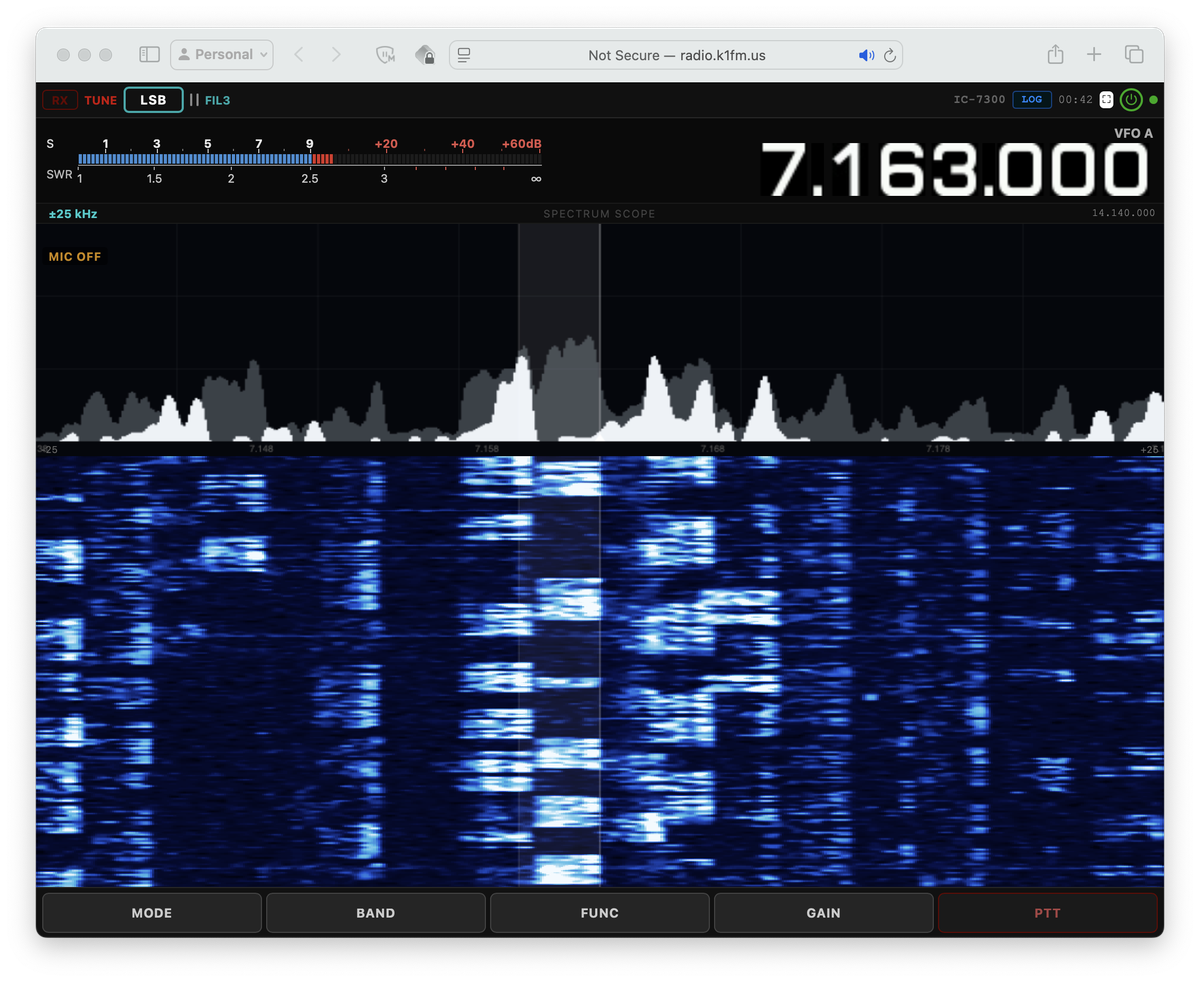
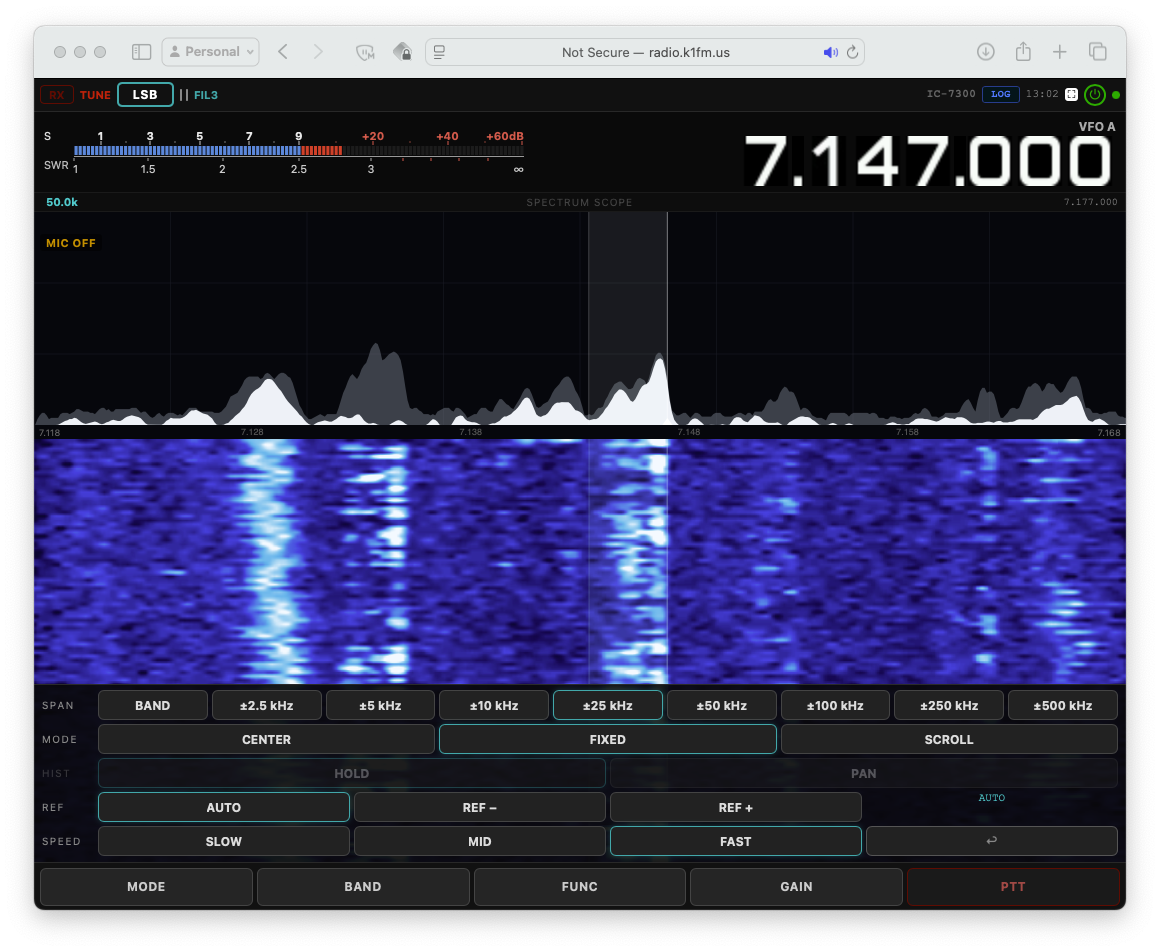
Release v0.9.1
Bump the version to 0.9.1, add the v0.9.1 CHANGELOG section, update the
README for this release (AppImage, the /data volume for Docker, the
server logbook and remote logging, new settings keys) and refresh the
SSB screenshot with the new scope sheet.

diff --git a/include/wfweb_version.h b/include/wfweb_version.h
@@ -14,6 +14,6 @@
 // tools/build-static.sh and .github/workflows/build.yml grep this file for
 // the version, so keep the line format stable.
 
-#define WFWEB_VERSION "0.9.0"
+#define WFWEB_VERSION "0.9.1"
 
 #endif // WFWEB_VERSION_H

diff --git a/README.md b/README.md
@@ -10,7 +10,7 @@ wfweb turns your transceiver into a web-accessible station. Waterfall, SSB, CW d
 
 ![FT8 digital mode panel](ft8.png)
 
-**FT8 / FT4** — decode, call and log without leaving the page; every decode is marked on the waterfall.
+**FT8 / FT4** — decode, call and log without leaving the page; every decode is marked on the waterfall and tagged with its DXCC entity, with stars for new ones.
 
 ![JS8 messenger panel](js8.png)
 
@@ -34,11 +34,11 @@ wfweb turns your transceiver into a web-accessible station. Waterfall, SSB, CW d
 
 wfweb is a fork of [wfview](https://gitlab.com/eliggett/wfview), the outstanding open-source front-end for Icom, Kenwood, and Yaesu transceivers by Elliott H. Liggett W6EL, Phil E. Taylor M0VSE, and contributors.
 
-Everything wfview does, wfweb does too — plus a built-in web interface:
+wfweb keeps wfview's radio engine and replaces the desktop GUI with a built-in web interface:
 
 | Feature | wfview | wfweb |
 |---|:---:|:---:|
-| Desktop GUI (Qt) | ✓ | ✓ |
+| Desktop GUI (Qt) | ✓ | — |
 | Full radio control (CI-V, LAN) | ✓ | ✓ |
 | Waterfall display | ✓ | ✓ |
 | Audio over LAN | ✓ | ✓ |
@@ -52,6 +52,7 @@ Everything wfview does, wfweb does too — plus a built-in web interface:
 | RADE (Radio Autoencoder) | — | ✓ |
 | FreeDV digital voice (700D/700E/1600) | — | ✓ |
 | AX.25 packet — 300/1200/9600, APRS, terminal, YAPP | — | ✓ |
+| Server-side ADIF logbook, remote logging (GridTracker, JTAlert, Log4OM…) | — | ✓ |
 | Mobile-responsive UI | — | ✓ |
 | Headless / no-display operation | — | ✓ |
 
@@ -86,10 +87,17 @@ In every case, once wfweb is running you open `https://<host>:8080` in your brow
 
 ### 1. Native build — USB radio
 
-Download a pre-built binary from [GitHub Releases](../../releases) for your platform, plug in your radio, and run:
+Download a pre-built binary from [GitHub Releases](../../releases) for your platform (see [Downloads](#downloads) — on Linux, a `.deb` for Debian/Ubuntu or an `.AppImage` for any other distro), plug in your radio, and run:
 
 ```bash
 ./wfweb
+```
+
+With the AppImage, make it executable first and run the file itself:
+
+```bash
+chmod +x wfweb_*.AppImage
+./wfweb_*.AppImage
 ```
 
 That's it — any supported Icom (IC-7300, IC-7300 Mk2, IC-7610, IC-705, IC-9700, IC-7100, IC-7410) is auto-detected over USB at its default CI-V address.
@@ -114,10 +122,13 @@ Replace the IP and credentials with your radio's settings. If your radio uses a 
 
 No build, no dependencies. The image `k1fm/wfweb` is multi-arch (`linux/amd64` and `linux/arm64`) — it runs on x86 servers, Raspberry Pi, and everything in between.
 
+Always mount a volume at `/data`: it holds your settings, the TLS certificate and the QSO logbook. Without one, all of that disappears with the container (wfweb warns about it in its log and in the web UI's log panel).
+
 **LAN radio (e.g. IC-7300 Mk2 via Ethernet):**
 
 ```bash
 docker run --rm -it \
+  -v wfweb-data:/data \
   -p 8080:8080 -p 8081:8081 \
   k1fm/wfweb --lan 192.168.1.100 --lan-user admin --lan-pass secret
 ```
@@ -131,11 +142,14 @@ connect on demand with the web UI's **Reconnect** button.
 
 ```bash
 docker run --rm -it \
+  -v wfweb-data:/data \
   --device /dev/ttyUSB0 \
   --device /dev/snd --group-add audio \
   -p 8080:8080 -p 8081:8081 \
   k1fm/wfweb
 ```
+
+> **Upgrading from v0.9.0 or earlier?** Settings used to live at `/root/.config/wfweb/wfweb.conf`. If you mounted a volume there, copy the file to `/data/wfweb/wfweb.conf` in the new volume (or re-enter your settings in the web UI once). See [DOCKER.md](DOCKER.md) for details.
 
 See [Docker details](#docker-details) below for USB audio, custom serial ports, and building the image locally.
 
@@ -230,7 +244,7 @@ Packet runs entirely server-side using a built-in [Direwolf](https://github.com/
 
 Tune to a packet frequency in a voice mode (LSB/USB/FM/AM), open the **Packet** panel, pick the demodulator, and frames stream into the monitor as they decode. To open a connected QSO type the peer call, optional digipeater path, and press **Connect** — once `CONNECTED` shows you can send messages or push files via YAPP.
 
-The shared station callsign (gear dialog) is reused across CW, FT8/FT4, JS8, FreeDV reporter, APRS, and the AX.25 link, so you set it once and every mode uses it.
+The shared station callsign (gear dialog) is reused across CW, FT8/FT4, JS8, FreeDV reporter, APRS, the AX.25 link and the logbook, so you set it once and every mode uses it. On the Server build it is kept on the server, so every browser sees the same one.
 
 ---
 
@@ -251,6 +265,19 @@ JS8 brings JS8Call-style weak-signal messaging into the browser: a chat-style pa
 | **Waterfall** | Shared RX spectrogram with the JS8 decode region marked |
 
 Open the **JS8** panel, pick a submode, and decodes stream into the Heard list as they arrive. Type a callsign to open a QSO tab and start messaging. The shared station callsign (gear dialog) is used here too.
+
+---
+
+## Logbook and remote logging
+
+Every QSO logged from FT8/FT4, JS8, CW or by hand goes into one ADIF logbook.
+
+- **Server build:** the log is a file on the server (`logbook.adi` in wfweb's data directory — `~/.local/share/wfweb/wfweb/` on Linux, `/data/wfweb/wfweb/` in Docker; `--logbook <file>` puts it elsewhere), shared by every browser and sized for a lifetime log. The log panel's **Log management** menu downloads the QSOs not yet exported (plain ADIF, ready for LoTW, QRZ, Club Log…), downloads the full logbook, or imports an ADIF file with duplicates skipped. Each QSO carries your station callsign (`STATION_CALLSIGN`).
+- **Standalone:** the log is kept in the browser.
+- **Remote logging (server build):** `--remote-log <host[:port]>` sends every logged QSO to GridTracker, JTAlert, Log4OM or any other program that listens for the WSJT-X UDP protocol (port 2237 if omitted); add `--remote-log-decodes` to forward FT8/FT4 decodes as well. It is set on the server only — the command line or `[RemoteLog]` in the settings file — never from a browser.
+- **Worked-before hints:** FT8/FT4 decodes show the sender's DXCC entity, a gold star for an entity never worked, a silver star for one not yet worked on this band, and dim stations already worked on this band. Both can be switched off in Station Settings.
+
+The logbook is also reachable over REST (paged listing, ADIF import/export, station callsign) — see [REST_API.md](REST_API.md).
 
 ---
 
@@ -454,6 +481,9 @@ Password=
 | `SerialPortBaud` | `[Radio]` | Baud rate | `115200` |
 | `AudioOutput` | `[LAN]` | Local server audio output device (optional) | `hw:CARD=CODEC,DEV=0` |
 | `AudioInput` | `[LAN]` | Local server audio input device (optional) | `hw:CARD=CODEC,DEV=0` |
+| `Callsign` / `Grid` | `[Station]` | Station callsign and locator (also set from the web UI) | `K1ABC` / `FN42` |
+| `Logbook` | `[General]` | ADIF logbook path; relative paths resolve next to the settings file | `station.adi` |
+| `Enabled` / `Target` / `Decodes` | `[RemoteLog]` | Remote logging (see [Logbook](#logbook-and-remote-logging)) | `true` / `127.0.0.1:2237` / `false` |
 
 > Audio streams directly between the radio and the browser — no server-side audio configuration is needed for web operation.
 
